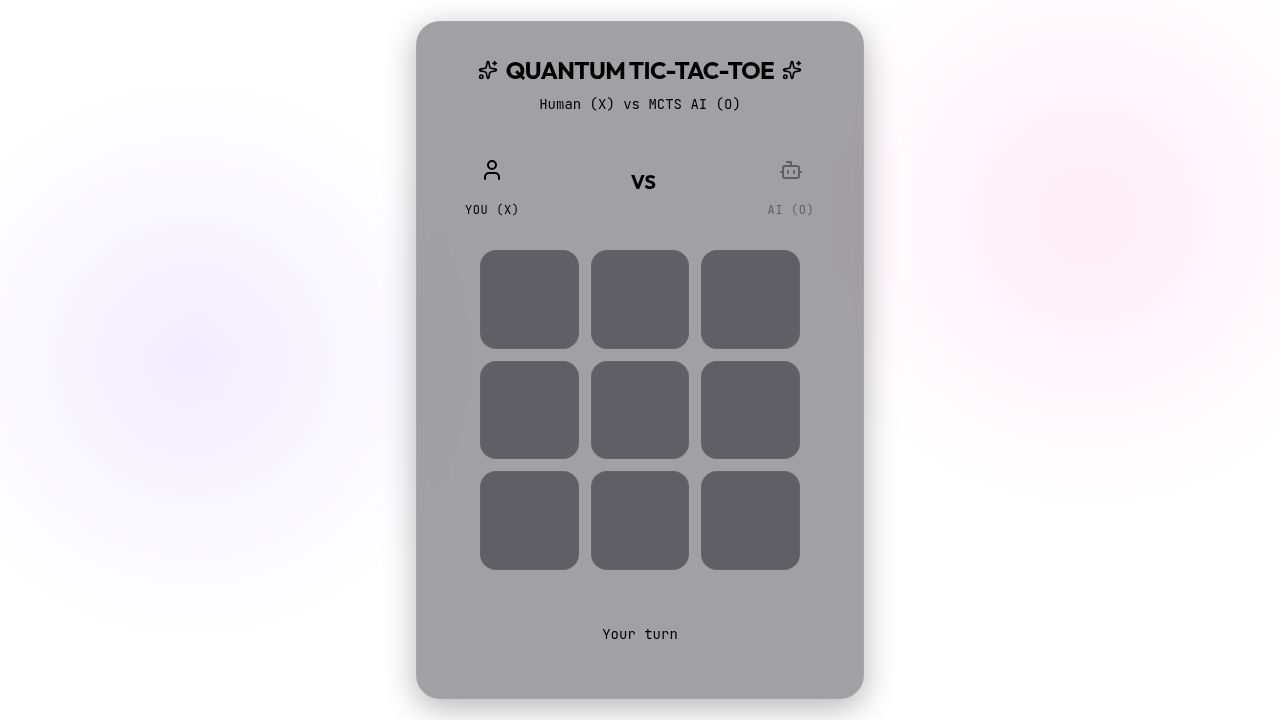
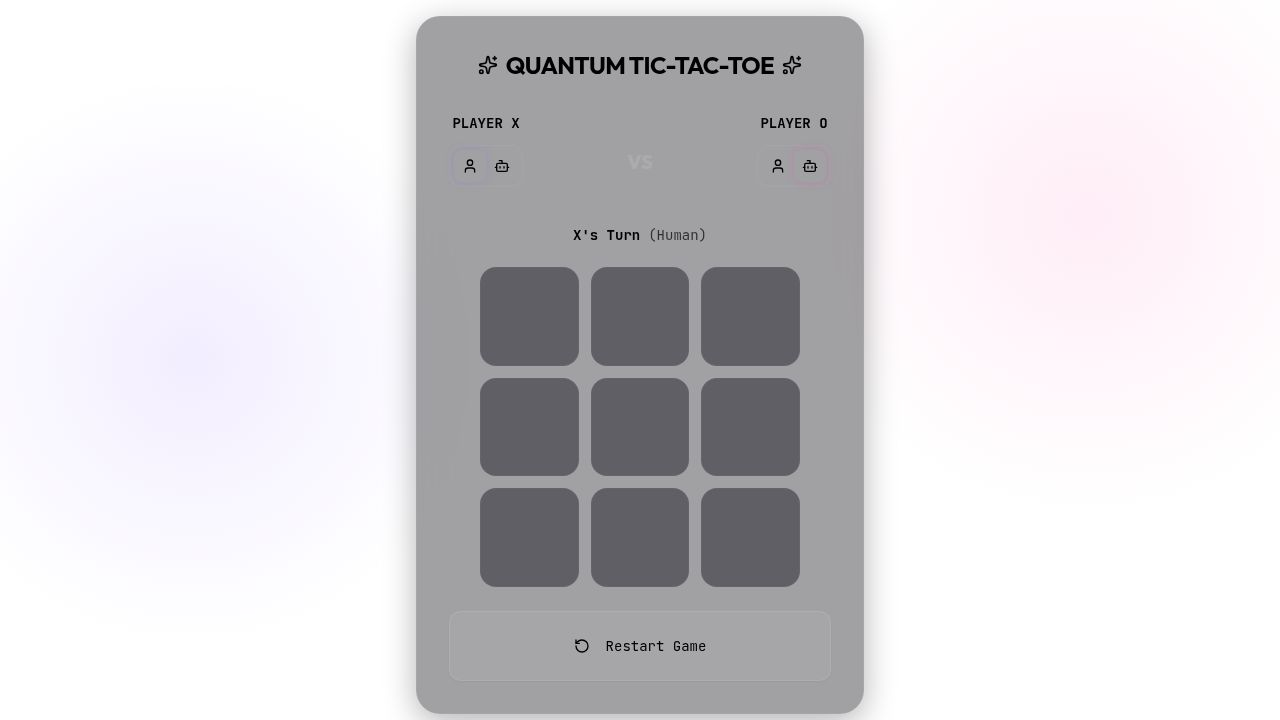
Allow users to configure game players and reset the board
Update game logic to support human/AI player selection for X and O, implement AI autoplay, and add a reset button.

Replit-Commit-Author: Agent
Replit-Commit-Session-Id: 92aeb35d-15b2-4c64-af44-cb0aaab43fef
Replit-Commit-Checkpoint-Type: full_checkpoint
Replit-Commit-Event-Id: 107aa6f1-9919-4765-9c63-57dda0ae2708
Replit-Commit-Screenshot-Url: https://storage.googleapis.com/screenshot-production-us-central1/0c0ab0b6-3794-42eb-97b5-8191c840df4e/92aeb35d-15b2-4c64-af44-cb0aaab43fef/5Vp0uKl
Replit-Helium-Checkpoint-Created: true

diff --git a/client/src/pages/Game.tsx b/client/src/pages/Game.tsx
@@ -6,7 +6,9 @@ import { Board, Player, checkWinner, getBestMoveMCTS } from "@/lib/mcts";
 
 export default function Game() {
   const [board, setBoard] = useState<Board>(Array(9).fill(null));
-  const [isHumanTurn, setIsHumanTurn] = useState(true);
+  const [currentPlayer, setCurrentPlayer] = useState<'X' | 'O'>('X');
+  const [playerXType, setPlayerXType] = useState<'human' | 'ai'>('human');
+  const [playerOType, setPlayerOType] = useState<'human' | 'ai'>('ai');
   const [winner, setWinner] = useState<Player | 'Draw' | null>(null);
   const [winningLine, setWinningLine] = useState<number[] | null>(null);
   const [difficulty] = useState<number>(3000); // MCTS iterations
@@ -35,42 +37,49 @@ export default function Game() {
     return null;
   }, []);
 
-  const handleCellClick = (index: number) => {
-    if (board[index] || winner || !isHumanTurn) return;
+  const handleMove = useCallback((index: number, player: 'X' | 'O') => {
+    if (board[index] || winner) return;
 
     const newBoard = [...board];
-    newBoard[index] = 'X';
+    newBoard[index] = player;
     setBoard(newBoard);
     
     const result = checkWinState(newBoard);
     if (!result) {
-      setIsHumanTurn(false);
+      setCurrentPlayer(player === 'X' ? 'O' : 'X');
     }
+  }, [board, winner, checkWinState]);
+
+  const handleCellClick = (index: number) => {
+    const isHumanTurn = (currentPlayer === 'X' && playerXType === 'human') || 
+                        (currentPlayer === 'O' && playerOType === 'human');
+    if (!isHumanTurn) return;
+    handleMove(index, currentPlayer);
   };
 
   useEffect(() => {
-    if (!isHumanTurn && !winner) {
+    if (winner) return;
+
+    const isAITurn = (currentPlayer === 'X' && playerXType === 'ai') || 
+                     (currentPlayer === 'O' && playerOType === 'ai');
+
+    if (isAITurn) {
       const timer = setTimeout(() => {
-        const bestMove = getBestMoveMCTS(board, 'O', difficulty);
-        const newBoard = [...board];
-        newBoard[bestMove] = 'O';
-        setBoard(newBoard);
-        
-        const result = checkWinState(newBoard);
-        if (!result) {
-          setIsHumanTurn(true);
+        const bestMove = getBestMoveMCTS(board, currentPlayer, difficulty);
+        if (bestMove !== -1) {
+          handleMove(bestMove, currentPlayer);
         }
-      }, 500); // Small delay for UX
+      }, 600); // Delay for visualization
 
       return () => clearTimeout(timer);
     }
-  }, [isHumanTurn, winner, board, checkWinState, difficulty]);
+  }, [currentPlayer, playerXType, playerOType, board, winner, difficulty, handleMove]);
 
   const resetGame = () => {
     setBoard(Array(9).fill(null));
     setWinner(null);
     setWinningLine(null);
-    setIsHumanTurn(true);
+    setCurrentPlayer('X');
   };
 
   return (
@@ -78,40 +87,122 @@ export default function Game() {
       <div className="max-w-md w-full glass-panel rounded-3xl p-8 flex flex-col items-center relative overflow-hidden">
         
         {/* Header */}
-        <div className="text-center mb-8 relative z-10">
+        <div className="text-center mb-6 relative z-10">
           <div className="flex items-center justify-center gap-2 mb-2">
             <Sparkles className="w-5 h-5 text-primary" />
             <h1 className="text-2xl font-bold tracking-tight uppercase">Quantum Tic-Tac-Toe</h1>
             <Sparkles className="w-5 h-5 text-accent" />
           </div>
-          <p className="text-muted-foreground text-sm font-mono">
-            Human (X) vs MCTS AI (O)
-          </p>
         </div>
 
-        {/* Turn indicator */}
-        <div className="flex w-full justify-between items-center mb-8 px-4 relative z-10">
-          <div className={`flex flex-col items-center gap-2 transition-opacity duration-300 ${isHumanTurn && !winner ? 'opacity-100' : 'opacity-40'}`}>
-            <div className={`w-12 h-12 rounded-full flex items-center justify-center transition-all duration-300 ${isHumanTurn && !winner ? 'bg-primary/20 text-primary shadow-[0_0_15px_rgba(var(--color-primary),0.3)]' : 'bg-secondary text-muted-foreground'}`}>
-              <User size={24} />
+        {/* Player Configuration */}
+        <div className="flex w-full justify-between items-center mb-6 relative z-10">
+          {/* Player X */}
+          <div className="flex flex-col items-center gap-3">
+            <div className={`text-sm font-mono font-bold transition-colors ${currentPlayer === 'X' && !winner ? 'text-primary' : 'text-muted-foreground'}`}>
+              PLAYER X
             </div>
-            <span className="text-xs font-mono font-medium tracking-wider">YOU (X)</span>
+            <div className="flex p-1 rounded-xl bg-background/50 border border-white/5">
+              <button 
+                onClick={() => setPlayerXType('human')}
+                data-testid="player-x-human"
+                className={`p-2 rounded-lg transition-all ${playerXType === 'human' ? 'bg-primary/20 text-primary shadow-[0_0_10px_hsl(var(--color-primary)/0.2)]' : 'text-muted-foreground hover:text-foreground'}`}
+                title="Human"
+              >
+                <User className="w-4 h-4" />
+              </button>
+              <button 
+                onClick={() => setPlayerXType('ai')}
+                data-testid="player-x-ai"
+                className={`p-2 rounded-lg transition-all ${playerXType === 'ai' ? 'bg-primary/20 text-primary shadow-[0_0_10px_hsl(var(--color-primary)/0.2)]' : 'text-muted-foreground hover:text-foreground'}`}
+                title="AI"
+              >
+                <Bot className="w-4 h-4" />
+              </button>
+            </div>
           </div>
-          
-          <div className="text-xl font-bold text-muted-foreground">VS</div>
 
-          <div className={`flex flex-col items-center gap-2 transition-opacity duration-300 ${!isHumanTurn && !winner ? 'opacity-100' : 'opacity-40'}`}>
-            <div className={`w-12 h-12 rounded-full flex items-center justify-center transition-all duration-300 ${!isHumanTurn && !winner ? 'bg-accent/20 text-accent shadow-[0_0_15px_rgba(var(--color-accent),0.3)]' : 'bg-secondary text-muted-foreground'}`}>
-              <Bot size={24} />
+          <div className="text-xl font-black text-white/10 mt-6">VS</div>
+
+          {/* Player O */}
+          <div className="flex flex-col items-center gap-3">
+            <div className={`text-sm font-mono font-bold transition-colors ${currentPlayer === 'O' && !winner ? 'text-accent' : 'text-muted-foreground'}`}>
+              PLAYER O
             </div>
-            <span className="text-xs font-mono font-medium tracking-wider">AI (O)</span>
+            <div className="flex p-1 rounded-xl bg-background/50 border border-white/5">
+              <button 
+                onClick={() => setPlayerOType('human')}
+                data-testid="player-o-human"
+                className={`p-2 rounded-lg transition-all ${playerOType === 'human' ? 'bg-accent/20 text-accent shadow-[0_0_10px_hsl(var(--color-accent)/0.2)]' : 'text-muted-foreground hover:text-foreground'}`}
+                title="Human"
+              >
+                <User className="w-4 h-4" />
+              </button>
+              <button 
+                onClick={() => setPlayerOType('ai')}
+                data-testid="player-o-ai"
+                className={`p-2 rounded-lg transition-all ${playerOType === 'ai' ? 'bg-accent/20 text-accent shadow-[0_0_10px_hsl(var(--color-accent)/0.2)]' : 'text-muted-foreground hover:text-foreground'}`}
+                title="AI"
+              >
+                <Bot className="w-4 h-4" />
+              </button>
+            </div>
           </div>
+        </div>
+
+        {/* Status Indicator */}
+        <div className="h-12 w-full flex items-center justify-center relative z-10 mb-2">
+          <AnimatePresence mode="wait">
+            {winner ? (
+              <motion.div
+                key="winner"
+                initial={{ opacity: 0, scale: 0.9 }}
+                animate={{ opacity: 1, scale: 1 }}
+                exit={{ opacity: 0, scale: 0.9 }}
+                className="text-xl font-bold"
+              >
+                {winner === 'Draw' ? (
+                  <span className="text-muted-foreground">It's a Draw!</span>
+                ) : winner === 'X' ? (
+                  <span className="text-primary drop-shadow-[0_0_8px_hsl(var(--color-primary)/0.5)]">Player X Wins!</span>
+                ) : (
+                  <span className="text-accent drop-shadow-[0_0_8px_hsl(var(--color-accent)/0.5)]">Player O Wins!</span>
+                )}
+              </motion.div>
+            ) : (
+              <motion.div
+                key={`turn-${currentPlayer}`}
+                initial={{ opacity: 0, y: 5 }}
+                animate={{ opacity: 1, y: 0 }}
+                exit={{ opacity: 0, y: -5 }}
+                className="flex items-center gap-2 text-sm font-mono"
+              >
+                {currentPlayer === 'X' ? (
+                  <span className="text-primary font-bold">X's Turn</span>
+                ) : (
+                  <span className="text-accent font-bold">O's Turn</span>
+                )}
+                <span className="text-muted-foreground opacity-70">
+                  ({currentPlayer === 'X' ? (playerXType === 'ai' ? 'Thinking...' : 'Human') : (playerOType === 'ai' ? 'Thinking...' : 'Human')})
+                </span>
+                {((currentPlayer === 'X' && playerXType === 'ai') || (currentPlayer === 'O' && playerOType === 'ai')) && (
+                  <span className="relative flex h-2 w-2 ml-1">
+                    <span className={`animate-ping absolute inline-flex h-full w-full rounded-full opacity-75 ${currentPlayer === 'X' ? 'bg-primary' : 'bg-accent'}`}></span>
+                    <span className={`relative inline-flex rounded-full h-2 w-2 ${currentPlayer === 'X' ? 'bg-primary' : 'bg-accent'}`}></span>
+                  </span>
+                )}
+              </motion.div>
+            )}
+          </AnimatePresence>
         </div>
 
         {/* Game Board */}
-        <div className="relative z-10 mb-8 aspect-square w-full max-w-[320px] grid grid-cols-3 grid-rows-3 gap-3">
+        <div className="relative z-10 aspect-square w-full max-w-[320px] grid grid-cols-3 grid-rows-3 gap-3 mb-6">
           {board.map((cell, idx) => {
             const isWinningCell = winningLine?.includes(idx);
+            const isHumanTurn = (currentPlayer === 'X' && playerXType === 'human') || 
+                                (currentPlayer === 'O' && playerOType === 'human');
+                                
             return (
               <button
                 key={idx}
@@ -119,7 +210,7 @@ export default function Game() {
                 disabled={!!cell || !!winner || !isHumanTurn}
                 data-testid={`cell-${idx}`}
                 className={`game-cell rounded-2xl flex items-center justify-center text-5xl font-bold cursor-pointer relative overflow-hidden
-                  ${isWinningCell ? (cell === 'X' ? 'bg-primary/20 shadow-[0_0_20px_rgba(var(--color-primary),0.3)]' : 'bg-accent/20 shadow-[0_0_20px_rgba(var(--color-accent),0.3)]') : ''}
+                  ${isWinningCell ? (cell === 'X' ? 'bg-primary/20 shadow-[0_0_20px_hsl(var(--color-primary)/0.3)]' : 'bg-accent/20 shadow-[0_0_20px_hsl(var(--color-accent)/0.3)]') : ''}
                 `}
               >
                 <AnimatePresence>
@@ -139,56 +230,17 @@ export default function Game() {
           })}
         </div>
 
-        {/* Game Status / Reset */}
-        <div className="h-16 w-full flex items-center justify-center relative z-10">
-          <AnimatePresence mode="wait">
-            {winner ? (
-              <motion.div
-                key="winner"
-                initial={{ opacity: 0, y: 10 }}
-                animate={{ opacity: 1, y: 0 }}
-                exit={{ opacity: 0, y: -10 }}
-                className="flex flex-col items-center w-full"
-              >
-                <div className="text-xl font-bold mb-4">
-                  {winner === 'Draw' ? (
-                    <span className="text-muted-foreground">It's a Draw!</span>
-                  ) : winner === 'X' ? (
-                    <span className="text-primary">You Won!</span>
-                  ) : (
-                    <span className="text-accent">AI Won!</span>
-                  )}
-                </div>
-                <Button 
-                  onClick={resetGame} 
-                  className="w-full rounded-xl py-6 text-base font-semibold shadow-lg shadow-primary/20 hover:shadow-primary/40 transition-all"
-                  data-testid="button-reset"
-                >
-                  <RotateCcw className="mr-2 h-5 w-5" />
-                  Play Again
-                </Button>
-              </motion.div>
-            ) : (
-              <motion.div
-                key="playing"
-                initial={{ opacity: 0 }}
-                animate={{ opacity: 1 }}
-                exit={{ opacity: 0 }}
-                className="text-muted-foreground text-sm font-mono flex items-center gap-2"
-              >
-                {!isHumanTurn && (
-                  <>
-                    <span className="relative flex h-3 w-3">
-                      <span className="animate-ping absolute inline-flex h-full w-full rounded-full bg-accent opacity-75"></span>
-                      <span className="relative inline-flex rounded-full h-3 w-3 bg-accent"></span>
-                    </span>
-                    AI is thinking...
-                  </>
-                )}
-                {isHumanTurn && "Your turn"}
-              </motion.div>
-            )}
-          </AnimatePresence>
+        {/* Persistent Reset Button */}
+        <div className="w-full relative z-10">
+          <Button 
+            onClick={resetGame} 
+            variant="outline"
+            className="w-full rounded-xl py-6 bg-white/5 border-white/10 hover:bg-white/10 hover:border-white/20 transition-all font-mono font-medium"
+            data-testid="button-reset"
+          >
+            <RotateCcw className="mr-2 h-4 w-4" />
+            Restart Game
+          </Button>
         </div>
         
         {/* Subtle background glow */}
